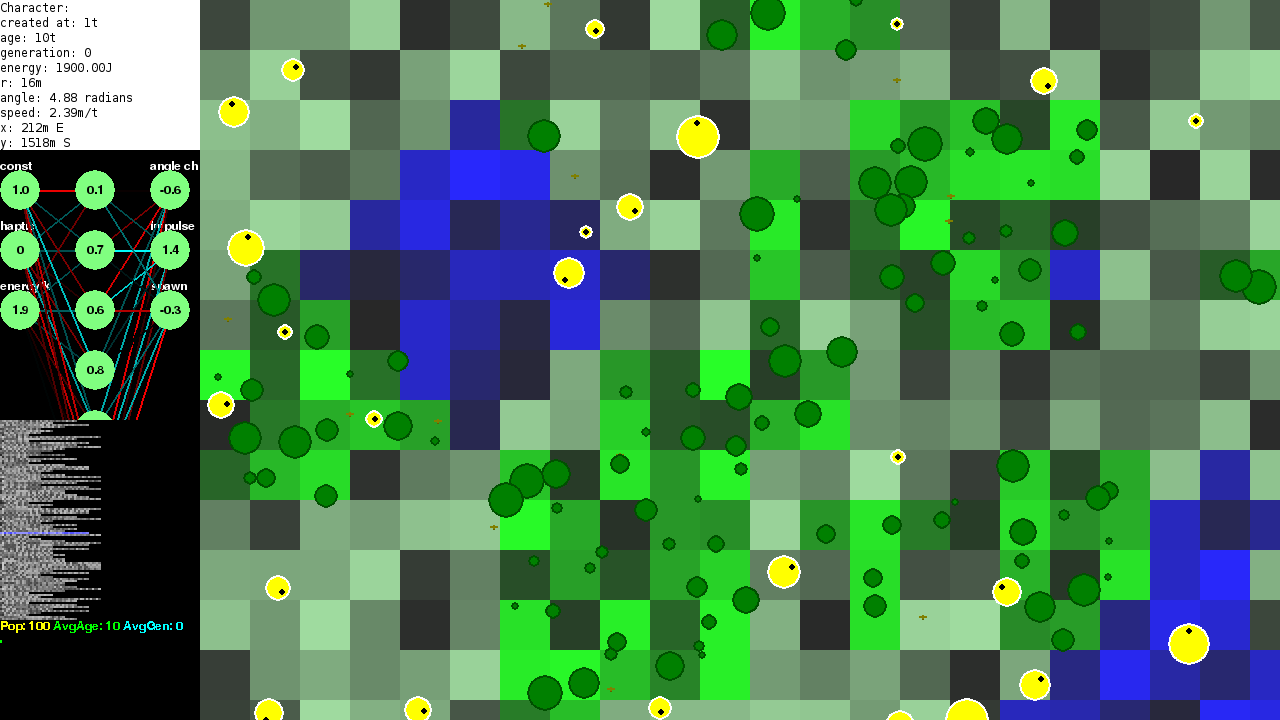
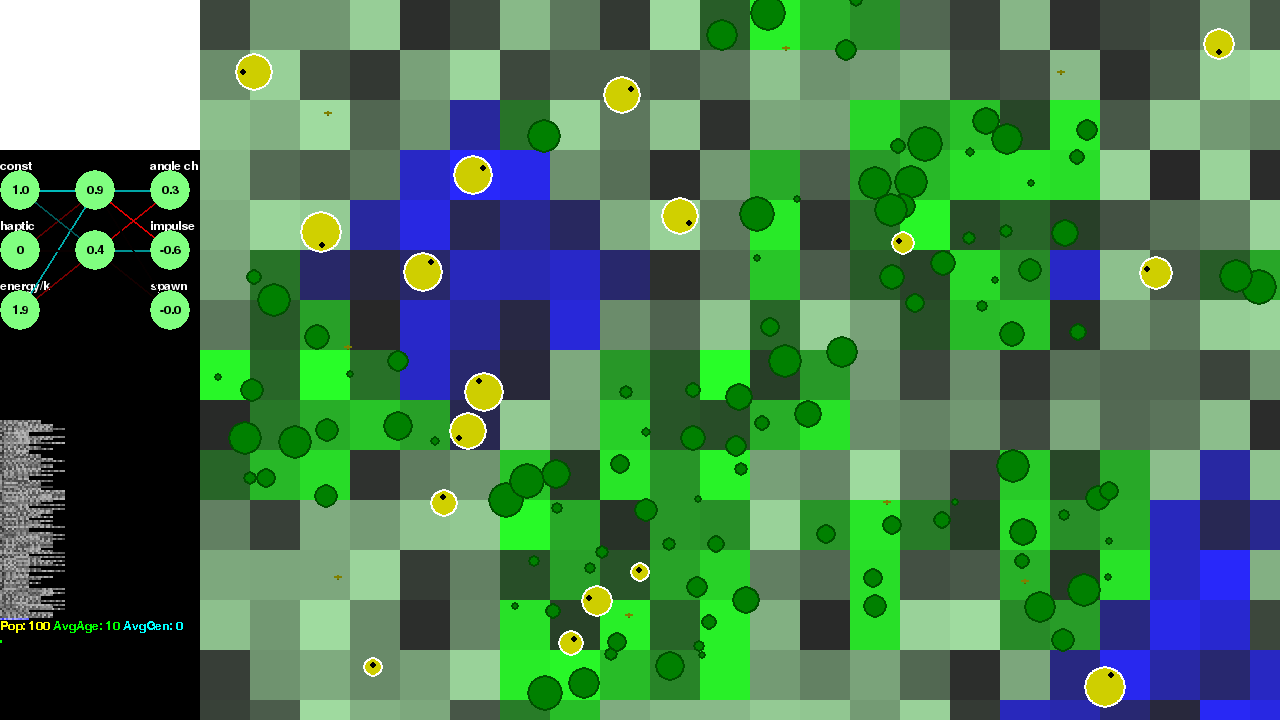
Implement sexual reproduction and impulse-based energy drain.

diff --git a/novel-evolve/genome.py b/novel-evolve/genome.py
@@ -17,7 +17,7 @@ class Genome(object):
     def from_random(cls, inputs, outputs):
         self = cls(inputs, outputs)
         self.radius = random.randint(5, 20)
-        self.hidden_neurons = random.randint(2, 8)
+        self.hidden_neurons = random.randint(2, 5)
 
         # For each hidden neuron, generate the weight for each input and for
         # each output
@@ -64,6 +64,34 @@ class Genome(object):
             '%s %s %s'%(len(new.hidden0_weights), new.hidden_neurons, new._inputs)
         assert len(new.output_weights) == new.hidden_neurons * new._outputs, \
             '%s %s %s'%(len(new.output_weights), new.hidden_neurons, new._outputs)
+        return new
+
+    @classmethod
+    def from_parents(cls, p1, p2, rate=0.01):
+        new = cls(p1._inputs, p1._outputs) # currently does not vary
+        new.radius = p1.radius if random.random() < 0.5 else p2.radius
+        new.hidden_neurons = (
+            p1.hidden_neurons if random.random() < 0.5 else p2.hidden_neurons)
+
+        # assign p1 to be the parent with fewer hidden neurons:
+        if p1.hidden_neurons > p2.hidden_neurons:
+            p1, p2 = p2, p1
+
+        for i in range(new.hidden_neurons):
+            offset = new._inputs * i
+            for j in range(new._inputs):
+                if i >= p1.hidden_neurons:
+                    parent = p2
+                else:
+                    parent = p1 if random.random() < 0.5 else p2
+                new.hidden0_weights.append(parent.hidden0_weights[offset + j])
+            for j in range(new._outputs):
+                if i >= p1.hidden_neurons:
+                    parent = p2
+                else:
+                    parent = p1 if random.random() < 0.5 else p2
+                new.output_weights.append(parent.output_weights[offset + j])
+        new = new.mutate(rate)
         return new
 
     def __str__(self):

diff --git a/novel-evolve/worldview.py b/novel-evolve/worldview.py
@@ -20,11 +20,11 @@ class WorldView(viewport.Viewport):
         self.tile_h = 50
         self.map = mapgen.Map.from_random(canvas_w//self.tile_w, canvas_h//self.tile_h)
 
-        self.alltiles = group.Group()
+        self.alltiles = group.Group(self)
         self.alltiles_coords = {}
 
-        self.alltrees = group.Group()
-        self.allfood = group.Group()
+        self.alltrees = group.Group(self)
+        self.allfood = group.Group(self)
 
         # Generate tiles and trees
         for i, row in enumerate(self.map):
@@ -36,7 +36,7 @@ class WorldView(viewport.Viewport):
                 self.alltiles.add(block)
                 self.alltiles_coords[i, j] = block
 
-        self.allcharacters = group.Group()
+        self.allcharacters = group.Group(self)
         self.active_item = None
         self.age = 0.0
 
